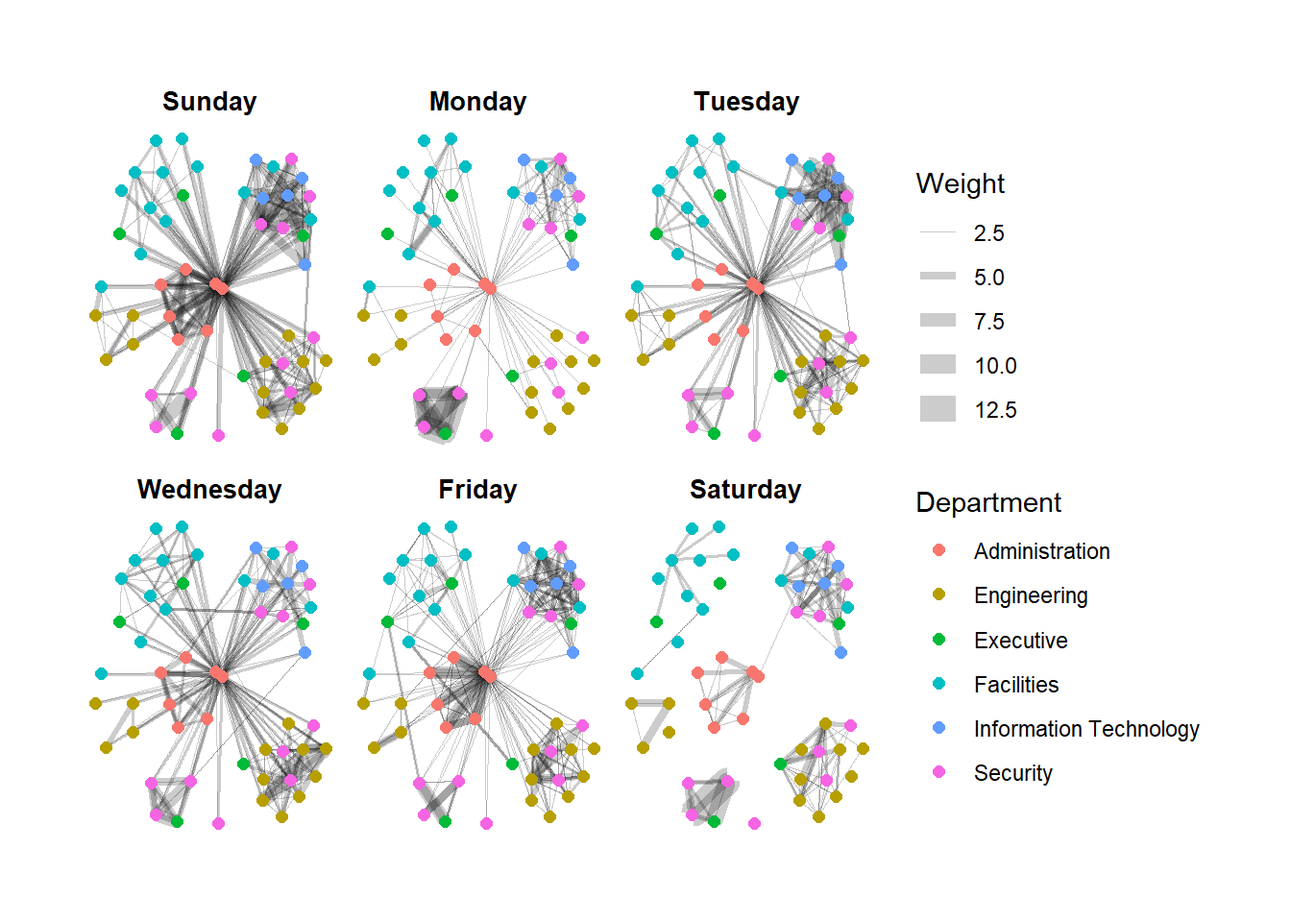
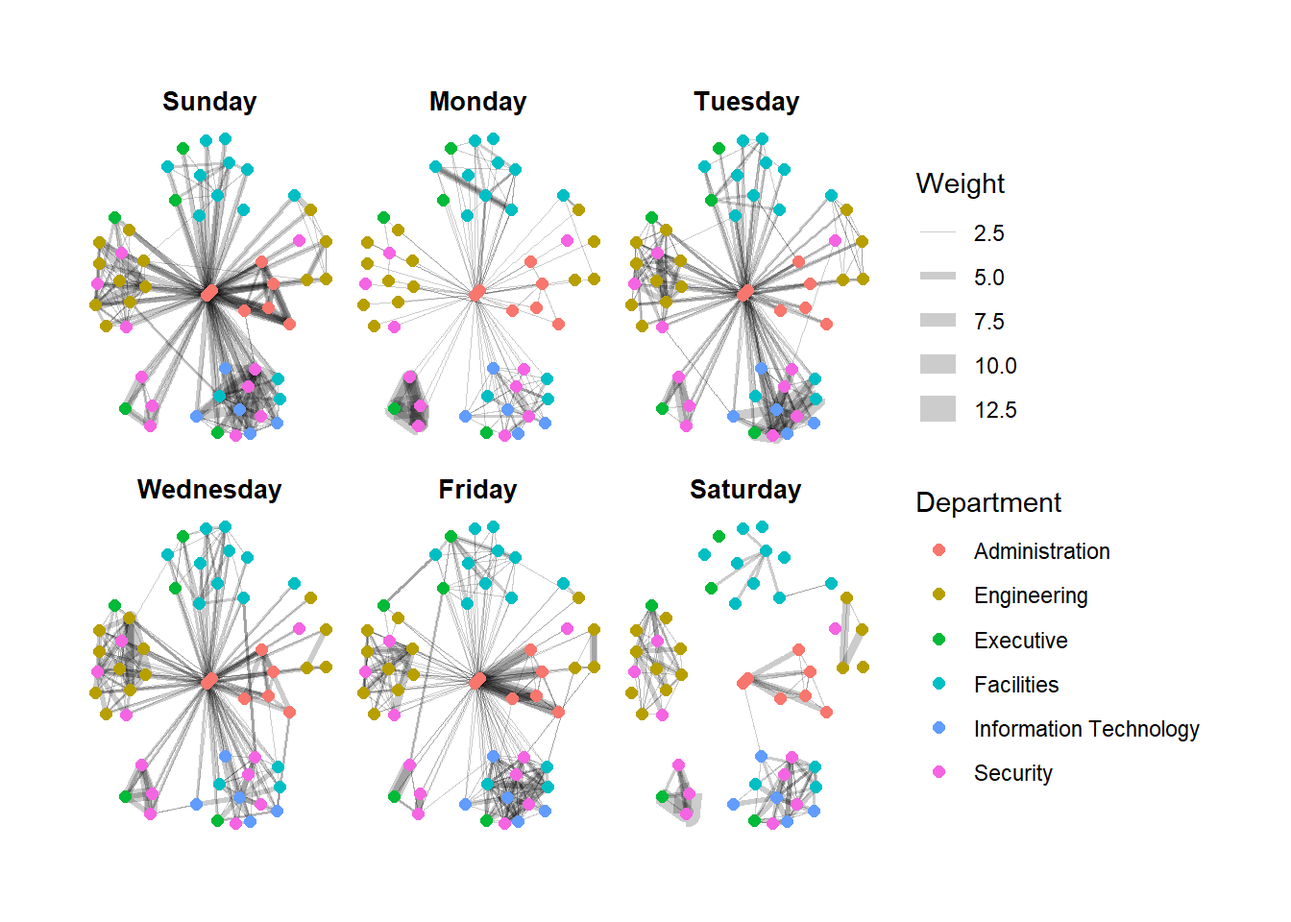
Amended In-class Exercise 8.

Changed region(s): [[0.0625, 0.125, 0.6875, 0.5], [0.0625, 0.5625, 0.6875, 0.9062]]

diff --git a/_site/In-class_Ex/In-class_Ex08/In-class_Ex08.html b/_site/In-class_Ex/In-class_Ex08/In-class_Ex08.html
@@ -504,8 +504,23 @@ Plotting the network graph:</p>
 <span id="cb13-7"><a href="#cb13-7" aria-hidden="true" tabindex="-1"></a>  <span class="fu">visLegend</span>() <span class="sc">%&gt;%</span></span>
 <span id="cb13-8"><a href="#cb13-8" aria-hidden="true" tabindex="-1"></a>  <span class="fu">visLayout</span>(<span class="at">randomSeed =</span> <span class="dv">123</span>)</span></code><button title="Copy to Clipboard" class="code-copy-button"><i class="bi"></i></button></pre></div>
 <div class="cell-output-display">
-<div id="htmlwidget-269d0491d1a39c2b927b" style="width:100%;height:464px;" class="visNetwork html-widget"></div>
-<script type="application/json" data-for="htmlwidget-269d0491d1a39c2b927b">{"x":{"nodes":{"id":[1,2,3,4,5,6,7,44,45,46,8,9,10,11,12,13,14,15,16,21,26,17,18,19,20,39,40,41,42,43,27,28,29,47,48,49,50,22,51,52,53,54,23,24,25,30,31,32,33,34,35,36,37,38],"label":["Mat.Bramar","Anda.Ribera","Rachel.Pantanal","Linda.Lagos","Ruscella.Mies.Haber","Carla.Forluniau","Cornelia.Lais","Kanon.Herrero","Varja.Lagos","Stenig.Fusil","Marin.Onda","Axel.Calzas","Brand.Tempestad","Elsa.Orilla","Isande.Borrasca","Kare.Orilla","Felix.Balas","Lars.Azada","Lidelse.Dedos","Willem.Vasco-Pais","Bertrand.Ovan","Adra.Nubarron","Birgitta.Frente","Gustav.Cazar","Vira.Frente","Linnea.Bergen","Lucas.Alcazar","Isak.Baza","Nils.Calixto","Sven.Flecha","Emile.Arpa","Varro.Awelon","Dante.Coginian","Edvard.Vann","Hennie.Osvaldo","Isia.Vann","Minke.Mies","Sten.Sanjorge.Jr","Felix.Resumir","Hideki.Cocinaro","Inga.Ferro","Loreto.Bodrogi","Ingrid.Barranco","Ada.Campo-Corrente","Orhan.Strum","Adan.Morlun","Albina.Hafon","Benito.Hawelon","Cecilia.Morluniau","Claudio.Hawelon","Dylan.Scozzese","Henk.Mies","Irene.Nant","Valeria.Morlun"],"group":["Administration","Administration","Administration","Administration","Administration","Administration","Administration","Security","Security","Security","Engineering","Engineering","Engineering","Engineering","Engineering","Engineering","Engineering","Engineering","Engineering","Executive","Facilities","Engineering","Engineering","Engineering","Engineering","Information Technology","Information Technology","Information Technology","Information Technology","Information Technology","Facilities","Facilities","Facilities","Security","Security","Security","Security","Executive","Security","Security","Security","Security","Executive","Executive","Executive","Facilities","Facilities","Facilities","Facilities","Facilities","Facilities","Facilities","Facilities","Facilities"],"Title":["Assistant to CEO","Assistant to CFO","Assistant to CIO","Assistant to COO","Assistant to Engineering Group Manager","Assistant to IT Group Manager","Assistant to Security Group Manager","Badging Office","Badging Office","Building Control","Drill Site Manager","Drill Technician","Drill Technician","Drill Technician","Drill Technician","Drill Technician","Engineer","Engineer","Engineering Group Manager","Environmental Safety Advisor","Facilities Group Manager","Geologist","Geologist","Hydraulic Technician","Hydraulic Technician","IT Group Manager","IT Helpdesk","IT Technician","IT Technician","IT Technician","Janitor","Janitor","Lead Janitor","Perimeter Control","Perimeter Control","Perimeter Control","Perimeter Control","President/CEO","Security Group Manager","Site Control","Site Control","Site Control","SVP/CFO","SVP/CIO","SVP/COO","Truck Driver","Truck Driver","Truck Driver","Truck Driver","Truck Driver","Truck Driver","Truck Driver","Truck Driver","Truck Driver"],"x":[0.0619318714175605,0.555327773443,0.815538642933199,0.934242997216069,0.138984203015864,0.74113645702011,1,0.784803672537789,0.594012477420025,0.407135996854185,-0.694652482297952,-0.378849173246295,-0.788319133675463,-0.523237699405,-0.229004262517353,-0.79563927569086,-0.564050228400396,-0.2968112030716,-0.598822168788103,-0.585970532460997,-0.00512481273190557,-0.110882619983708,-0.39893541776013,-0.654738477423694,-0.122977114710762,-1,-0.0194945969298241,0.127805254796072,0.52903138367244,0.331944786333487,-0.326315428583918,0.164304401198448,0.219182507867763,0.0859796220550888,0.171627819748573,0.99530636831601,0.80720577340852,-0.736091526466995,0.799640121714397,0.561581828727225,0.539922893586527,0.829931463912564,-0.103725134019332,-0.901586940833432,-0.854190754699053,-0.17693253095932,0.292347094542208,-0.171148731554888,-0.197403384659867,-0.361714225305335,0.00747028616798073,0.0495956526709669,-0.397657841161937,0.312325891148985],"y":[0.072420241945826,0.280408942982149,0.413696674700336,0.294190501978734,0.0164432340676965,0.595857035686546,0.139761333559704,-0.646402605061506,-0.600320795841866,-0.531905039304818,-0.337140279606921,-0.686835520126779,-0.664648397997525,-0.359236623462442,-0.790192661075687,-0.507211592314172,-0.857243169413863,-0.482334864922371,-0.575539317768908,0.16466797262346,0.837843152245573,-0.136055240732692,-0.893145723176246,-0.74847870163623,-0.684495206187535,0.418917897928071,-0.0660774247307229,-1,-0.897687363175571,-0.988824388752696,0.526379850946588,0.905947933383095,0.519316015468105,-0.102828566291442,-0.0937409161455798,-0.250481896426205,-0.506521085025451,0.433150079384343,-0.115430081099156,-0.322429514741495,-0.0810720734318572,-0.340740763661161,0.036023658687202,0.169661417722901,-0.0455061900873895,0.964707674058657,0.86716965272447,0.582165436091794,0.785498809347784,0.875388255432622,1,0.603111063883243,0.726791508435089,0.726707795093708]},"edges":{"from":[1,1,1,1,1,1,1,1,1,1,1,1,1,1,1,1,1,1,1,1,1,1,1,1,1,1,1,1,1,1,1,1,1,1,1,1,1,1,1,1,1,1,1,1,1,1,1,1,1,1,1,1,1,2,2,2,2,2,2,2,2,2,3,3,3,3,3,3,3,4,4,4,4,4,4,5,5,5,5,5,5,5,5,5,5,5,5,5,5,5,5,5,5,5,5,5,5,5,5,5,5,5,5,5,5,5,5,5,5,5,5,5,5,5,5,5,5,5,5,5,5,5,5,5,5,5,5,5,6,6,6,6,6,6,6,7,7,7,7,7,7,8,8,8,8,8,8,8,8,8,8,8,8,8,9,9,9,9,9,9,9,9,9,9,9,9,9,10,10,10,10,10,10,10,10,10,10,10,10,11,11,11,11,11,11,11,11,11,11,11,11,11,12,12,12,12,12,12,12,12,12,12,12,12,12,13,13,13,13,13,13,13,13,13,13,13,13,14,14,14,14,14,14,14,14,14,14,14,14,15,15,15,15,15,15,15,15,15,15,15,15,15,16,16,16,16,16,16,16,16,16,16,16,16,17,17,17,17,17,17,17,17,17,17,17,17,17,17,17,17,17,17,17,17,17,17,17,17,17,17,17,17,17,17,17,17,17,17,17,17,17,17,17,17,17,17,17,17,17,17,17,17,17,17,17,17,17,18,18,18,18,18,18,18,18,18,18,18,19,19,19,19,19,19,19,19,19,19,19,19,20,20,20,20,20,20,20,20,20,20,20,20,20,21,21,21,21,21,22,22,22,22,22,23,23,23,23,23,23,23,23,23,23,23,23,23,23,23,23,23,23,23,23,23,23,23,23,23,23,23,23,23,23,23,23,23,23,23,23,23,23,23,23,23,23,23,23,23,23,23,23,23,23,23,23,23,24,24,24,24,24,25,25,25,25,25,26,26,26,26,26,26,26,26,26,26,26,26,27,27,27,27,27,27,27,27,27,27,27,27,27,28,28,28,28,28,28,28,28,28,28,28,28,28,29,29,29,29,29,29,29,29,29,29,29,29,29,29,29,29,30,30,30,30,30,30,30,30,30,30,30,30,31,31,31,31,31,31,31,31,31,31,31,31,32,32,32,32,32,32,32,32,32,32,32,32,32,33,33,33,33,33,33,33,33,33,33,33,33,33,34,34,34,34,34,34,34,34,34,34,34,35,35,35,35,35,35,35,35,35,35,35,35,36,36,36,36,36,36,36,36,36,36,36,36,36,36,36,37,37,37,37,37,37,37,37,37,37,37,37,38,38,38,38,38,38,38,38,38,39,40,40,40,40,40,40,40,40,40,40,40,40,40,40,40,40,40,40,40,40,40,40,40,40,40,40,40,40,40,40,40,40,40,40,40,40,40,40,40,40,40,40,40,40,40,40,40,40,40,40,40,40,40,41,41,41,42,42,42,42,43,43,43,44,44,44,44,44,44,44,44,44,44,44,45,45,45,45,45,45,45,45,45,45,46,46,46,46,46,46,46,46,46,46,47,47,47,47,47,47,47,47,47,47,47,47,47,47,47,47,47,47,47,47,47,47,47,47,47,47,47,47,47,47,47,47,47,47,47,47,47,47,47,47,47,47,47,47,47,47,47,47,47,47,47,47,47,48,48,48,48,48,48,48,48,48,48,48,48,48,48,48,48,48,48,48,48,48,48,48,48,48,48,48,48,48,48,48,48,48,48,48,48,48,48,48,48,48,48,48,48,48,48,48,48,48,48,48,48,48,49,49,49,49,49,49,49,50,50,50,50,50,50,51,51,51,51,51,51,51,51,51,51,51,52,52,52,52,52,52,52,52,52,52,52,52,53,53,53,53,53,53,53,53,53,53,53,53,54,54,54,54,54,54,54,54,54,54,54],"to":[2,3,4,5,6,7,8,9,10,11,12,13,14,15,16,17,18,19,20,21,22,23,24,25,26,27,28,29,30,31,32,33,34,35,36,37,38,39,40,41,42,43,44,45,46,47,48,49,50,51,52,53,54,1,3,4,5,6,7,15,36,38,1,2,4,5,6,7,48,1,2,3,5,6,7,1,2,3,4,6,7,8,9,10,11,12,13,14,15,16,17,18,19,20,21,22,23,24,25,26,27,28,29,30,31,32,33,34,35,36,37,38,39,40,41,42,43,44,45,46,47,48,49,50,51,52,53,54,1,2,3,4,5,7,28,1,2,3,4,5,6,9,10,11,12,13,14,15,16,17,18,19,20,27,8,10,11,12,13,14,15,16,17,18,19,20,45,8,9,11,12,13,14,15,16,17,18,19,20,8,9,10,12,13,14,15,16,17,18,19,20,32,8,9,10,11,13,14,15,16,17,18,19,20,52,8,9,10,11,12,14,15,16,17,18,19,20,8,9,10,11,12,13,15,16,17,18,19,20,2,8,9,10,11,12,13,14,16,17,18,19,20,8,9,10,11,12,13,14,15,17,18,19,20,1,2,3,4,5,6,7,8,9,10,11,12,13,14,15,16,18,19,20,21,22,23,24,25,26,27,28,29,30,31,32,33,34,35,36,37,38,39,40,41,42,43,44,45,46,47,48,49,50,51,52,53,54,8,9,10,11,12,13,14,15,17,19,20,8,9,10,11,12,13,14,15,16,17,18,20,8,9,10,11,12,13,14,15,16,17,18,19,50,22,23,24,25,53,21,23,24,25,36,1,2,3,4,5,6,7,8,9,10,11,12,13,14,15,16,17,18,19,20,21,22,24,25,26,27,28,29,30,31,32,33,34,35,36,37,38,39,40,41,42,43,44,45,46,47,48,49,50,51,52,53,54,5,21,22,23,25,21,22,23,24,46,27,28,29,30,31,32,33,34,35,36,37,38,8,28,29,30,31,32,33,34,35,36,37,38,40,6,26,27,29,30,31,32,33,34,35,36,37,38,1,26,27,28,30,31,32,33,34,35,36,37,38,40,51,52,26,27,28,29,31,32,33,34,35,36,37,38,3,27,28,29,30,32,33,34,35,36,37,38,11,26,27,28,29,30,31,33,34,35,36,37,38,23,26,27,28,29,30,31,32,34,35,36,37,38,27,28,29,30,31,32,33,35,36,37,38,26,27,28,29,30,31,32,33,34,36,37,38,2,22,26,27,28,29,30,31,32,33,34,35,37,38,53,26,27,28,29,30,31,32,33,34,35,36,38,27,28,29,30,31,32,34,35,36,34,1,2,3,4,5,6,7,8,9,10,11,12,13,14,15,16,17,18,19,20,21,22,23,24,25,26,27,28,29,30,31,32,33,34,35,36,37,38,39,41,42,43,44,45,46,47,48,49,50,51,52,53,54,40,42,43,40,41,43,44,40,41,42,42,45,46,47,48,49,50,51,52,53,54,44,46,47,48,49,50,51,52,53,54,44,45,47,48,49,50,51,52,53,54,1,2,3,4,5,6,7,8,9,10,11,12,13,14,15,16,17,18,19,20,21,22,23,24,25,26,27,28,29,30,31,32,33,34,35,36,37,38,39,40,41,42,43,44,45,46,48,49,50,51,52,53,54,1,2,3,4,5,6,7,8,9,10,11,12,13,14,15,16,17,18,19,20,21,22,23,24,25,26,27,28,29,30,31,32,33,34,35,36,37,38,39,40,41,42,43,44,45,46,47,49,50,51,52,53,54,3,45,46,47,48,52,54,5,20,48,49,53,54,29,44,45,46,47,48,49,50,52,53,54,7,12,29,44,45,46,47,48,49,50,51,53,5,21,36,44,45,47,48,49,50,51,52,54,5,44,45,46,47,48,49,50,51,52,53],"weight":[21,21,21,21,21,21,15,15,15,15,15,15,15,15,15,15,15,15,15,15,15,15,15,15,15,15,15,16,15,15,15,15,15,15,15,15,15,15,15,15,15,15,15,15,15,15,15,15,15,15,15,15,15,6,6,6,6,6,9,2,2,2,8,8,8,8,8,8,2,12,12,12,12,12,12,20,20,20,20,20,20,10,10,10,10,10,10,10,10,10,10,10,10,10,10,10,10,11,10,10,10,10,10,10,10,10,10,10,10,10,10,10,10,10,10,10,10,10,10,10,10,11,11,11,10,10,11,11,11,11,11,11,11,11,3,12,15,12,12,12,12,3,4,3,3,4,4,3,3,4,3,4,3,3,4,4,9,4,7,7,11,5,4,5,6,8,3,8,8,7,9,9,6,9,10,10,7,5,7,11,10,11,6,11,7,11,9,10,7,10,8,3,9,10,8,8,11,6,7,5,3,6,5,6,2,9,5,10,7,7,4,3,4,7,2,3,3,6,5,7,4,6,6,7,5,7,6,3,4,3,6,13,8,8,5,6,6,11,9,6,2,7,6,8,7,5,5,7,6,7,7,5,4,6,2,2,2,2,2,2,2,6,4,7,7,6,6,6,6,5,5,4,4,2,2,2,2,2,2,2,2,2,2,2,2,2,2,2,2,2,2,2,2,2,2,2,2,2,2,2,2,2,2,2,2,2,2,3,3,4,5,3,3,2,5,2,3,2,4,8,5,9,6,5,4,10,7,4,4,5,5,10,5,7,4,5,4,4,4,3,2,4,3,4,2,4,7,2,7,5,10,4,2,4,4,4,4,4,4,4,4,4,4,4,4,6,4,4,4,4,4,4,4,6,10,17,9,4,4,4,4,4,4,4,5,4,4,4,4,4,4,4,4,4,4,4,4,4,4,4,4,4,4,4,4,4,2,5,9,7,3,8,2,3,4,2,26,25,25,25,25,25,24,25,25,26,25,26,3,4,3,6,4,3,3,6,5,3,4,5,3,3,2,3,6,5,8,6,6,7,4,6,6,6,2,2,6,5,7,5,6,5,7,6,6,5,5,3,2,3,3,5,7,9,12,9,9,6,13,12,9,11,2,5,4,6,6,9,7,6,12,7,7,8,4,2,8,6,9,7,10,7,9,6,10,5,8,2,4,2,3,5,7,8,4,7,5,7,6,4,5,6,4,7,8,5,9,6,6,10,6,3,11,7,9,11,15,7,11,11,9,13,13,2,2,3,12,11,12,16,15,19,12,11,14,11,13,3,3,4,5,6,7,7,6,9,10,7,5,3,2,5,5,2,2,2,4,4,3,2,2,2,2,2,2,2,2,2,2,2,2,2,2,2,2,2,2,2,2,2,2,2,2,2,2,2,4,2,3,2,2,2,2,2,2,2,2,2,2,40,22,30,2,2,2,2,2,2,2,2,2,2,2,28,19,24,25,19,28,2,15,16,24,3,4,2,5,6,2,5,5,2,6,3,6,4,2,6,5,5,4,7,5,6,6,3,4,9,5,6,8,7,4,6,2,2,2,2,2,2,2,2,2,2,2,2,2,2,2,2,2,2,2,2,2,2,2,2,2,2,2,2,2,2,2,2,2,2,2,3,2,2,2,2,2,2,2,5,4,3,7,5,6,6,5,5,5,2,2,4,2,4,2,2,2,2,2,2,2,2,3,2,2,2,2,2,2,2,2,2,2,2,2,2,2,2,2,2,2,2,2,2,2,2,2,2,2,2,2,2,4,4,5,3,8,6,5,5,5,6,2,3,2,3,3,4,2,2,4,2,2,5,2,3,3,3,3,4,4,2,3,3,3,3,2,2,4,2,4,4,3,4,5,3,2,4,3,3,4,3,3,2,5,4,8,2,2,5,2,3,4,3,2,5,4,4,2,3,4]},"nodesToDataframe":true,"edgesToDataframe":true,"options":{"width":"100%","height":"100%","nodes":{"shape":"dot","physics":false},"manipulation":{"enabled":false},"edges":{"smooth":false},"physics":{"stabilization":false},"layout":{"randomSeed":123}},"groups":["Administration","Security","Engineering","Executive","Facilities","Information Technology"],"width":null,"height":null,"idselection":{"enabled":false},"byselection":{"enabled":false},"main":null,"submain":null,"footer":null,"background":"rgba(0, 0, 0, 0)","igraphlayout":{"type":"square"},"legend":{"width":0.2,"useGroups":true,"position":"left","ncol":1,"stepX":100,"stepY":100,"zoom":true}},"evals":[],"jsHooks":[]}</script>
+<div id="htmlwidget-17de9cf8d09c697d8b39" style="width:100%;height:464px;" class="visNetwork html-widget"></div>
+<script type="application/json" data-for="htmlwidget-17de9cf8d09c697d8b39">{"x":{"nodes":{"id":[1,2,3,4,5,6,7,44,45,46,8,9,10,11,12,13,14,15,16,21,26,17,18,19,20,39,40,41,42,43,27,28,29,47,48,49,50,22,51,52,53,54,23,24,25,30,31,32,33,34,35,36,37,38],"label":["Mat.Bramar","Anda.Ribera","Rachel.Pantanal","Linda.Lagos","Ruscella.Mies.Haber","Carla.Forluniau","Cornelia.Lais","Kanon.Herrero","Varja.Lagos","Stenig.Fusil","Marin.Onda","Axel.Calzas","Brand.Tempestad","Elsa.Orilla","Isande.Borrasca","Kare.Orilla","Felix.Balas","Lars.Azada","Lidelse.Dedos","Willem.Vasco-Pais","Bertrand.Ovan","Adra.Nubarron","Birgitta.Frente","Gustav.Cazar","Vira.Frente","Linnea.Bergen","Lucas.Alcazar","Isak.Baza","Nils.Calixto","Sven.Flecha","Emile.Arpa","Varro.Awelon","Dante.Coginian","Edvard.Vann","Hennie.Osvaldo","Isia.Vann","Minke.Mies","Sten.Sanjorge.Jr","Felix.Resumir","Hideki.Cocinaro","Inga.Ferro","Loreto.Bodrogi","Ingrid.Barranco","Ada.Campo-Corrente","Orhan.Strum","Adan.Morlun","Albina.Hafon","Benito.Hawelon","Cecilia.Morluniau","Claudio.Hawelon","Dylan.Scozzese","Henk.Mies","Irene.Nant","Valeria.Morlun"],"group":["Administration","Administration","Administration","Administration","Administration","Administration","Administration","Security","Security","Security","Engineering","Engineering","Engineering","Engineering","Engineering","Engineering","Engineering","Engineering","Engineering","Executive","Facilities","Engineering","Engineering","Engineering","Engineering","Information Technology","Information Technology","Information Technology","Information Technology","Information Technology","Facilities","Facilities","Facilities","Security","Security","Security","Security","Executive","Security","Security","Security","Security","Executive","Executive","Executive","Facilities","Facilities","Facilities","Facilities","Facilities","Facilities","Facilities","Facilities","Facilities"],"Title":["Assistant to CEO","Assistant to CFO","Assistant to CIO","Assistant to COO","Assistant to Engineering Group Manager","Assistant to IT Group Manager","Assistant to Security Group Manager","Badging Office","Badging Office","Building Control","Drill Site Manager","Drill Technician","Drill Technician","Drill Technician","Drill Technician","Drill Technician","Engineer","Engineer","Engineering Group Manager","Environmental Safety Advisor","Facilities Group Manager","Geologist","Geologist","Hydraulic Technician","Hydraulic Technician","IT Group Manager","IT Helpdesk","IT Technician","IT Technician","IT Technician","Janitor","Janitor","Lead Janitor","Perimeter Control","Perimeter Control","Perimeter Control","Perimeter Control","President/CEO","Security Group Manager","Site Control","Site Control","Site Control","SVP/CFO","SVP/CIO","SVP/COO","Truck Driver","Truck Driver","Truck Driver","Truck Driver","Truck Driver","Truck Driver","Truck Driver","Truck Driver","Truck Driver"],"x":[0.0490761118691221,-0.235618043772067,-0.514118984467484,-0.544479676076603,-0.0952595248712723,-0.339400615859226,-0.595684391889456,-0.696497185823919,-0.511527323216068,-0.850122174510845,0.668832880697362,0.392394280238909,0.628944730010817,0.781222014325706,0.296380426751599,0.76753001356379,0.87205691182464,0.482935918190789,0.692186445305089,-0.879080256774359,0.574314734080225,0.168409898812859,0.550092741749856,0.846361528185995,0.432244682813996,1,0.0612437607384675,-0.151403061194217,-0.358316679047664,0.0368981741790695,0.496177244846153,0.197553346797477,0.16131571851981,-0.0503403682768746,-0.11808391811963,-0.849143857674396,-0.306117518389631,-0.774257415982429,-0.587754861090573,-0.395851317168555,-0.607408685337416,-0.652913768349093,-0.016614375537798,-0.888066353481524,-1,0.392014335646065,0.239255941741794,0.679764919095264,0.100837202164121,0.676430636306319,0.473113653485258,0.00680002248794009,0.366376209170978,0.493491547723007],"y":[-0.121624702377274,-0.521919437322234,-0.554777040595984,-0.768808605182255,-0.0904397885986468,-0.846436503103326,-0.383437474139083,0.64636791491623,0.632309159051837,0.440779407296097,0.304413350244996,0.754207626889703,0.524846932375569,0.196053237512196,0.610644609272311,0.623580501760453,0.358928903124271,0.26336474997375,0.750979420189484,-0.192284678050765,-0.894847722823897,0.0722978840887276,0.764477565922275,0.50275081970208,0.542199720224081,-0.221294972977735,0.0600757046263378,1,0.921813598404535,0.962358237091077,-0.425117946621145,-0.946020036052809,-0.468743831663799,0.0957142972446638,0.039699799786153,0.224526087316497,0.605300671510294,-0.588095396065586,0.226694101948242,0.343104166312561,0.0560097001290032,0.449435847675504,-0.0565685352096733,-0.379580126548951,-0.0591224974851818,-0.861097102081331,-0.710447834700522,-0.513590567543057,-0.856576711543792,-0.71159005242756,-0.733055101086789,-0.68668011058634,-1,-0.584158882999953]},"edges":{"from":[1,1,1,1,1,1,1,1,1,1,1,1,1,1,1,1,1,1,1,1,1,1,1,1,1,1,1,1,1,1,1,1,1,1,1,1,1,1,1,1,1,1,1,1,1,1,1,1,1,1,1,1,1,2,2,2,2,2,2,2,2,2,3,3,3,3,3,3,3,4,4,4,4,4,4,5,5,5,5,5,5,5,5,5,5,5,5,5,5,5,5,5,5,5,5,5,5,5,5,5,5,5,5,5,5,5,5,5,5,5,5,5,5,5,5,5,5,5,5,5,5,5,5,5,5,5,5,5,6,6,6,6,6,6,6,7,7,7,7,7,7,8,8,8,8,8,8,8,8,8,8,8,8,8,9,9,9,9,9,9,9,9,9,9,9,9,9,10,10,10,10,10,10,10,10,10,10,10,10,11,11,11,11,11,11,11,11,11,11,11,11,11,12,12,12,12,12,12,12,12,12,12,12,12,12,13,13,13,13,13,13,13,13,13,13,13,13,14,14,14,14,14,14,14,14,14,14,14,14,15,15,15,15,15,15,15,15,15,15,15,15,15,16,16,16,16,16,16,16,16,16,16,16,16,17,17,17,17,17,17,17,17,17,17,17,17,17,17,17,17,17,17,17,17,17,17,17,17,17,17,17,17,17,17,17,17,17,17,17,17,17,17,17,17,17,17,17,17,17,17,17,17,17,17,17,17,17,18,18,18,18,18,18,18,18,18,18,18,19,19,19,19,19,19,19,19,19,19,19,19,20,20,20,20,20,20,20,20,20,20,20,20,20,21,21,21,21,21,22,22,22,22,22,23,23,23,23,23,23,23,23,23,23,23,23,23,23,23,23,23,23,23,23,23,23,23,23,23,23,23,23,23,23,23,23,23,23,23,23,23,23,23,23,23,23,23,23,23,23,23,23,23,23,23,23,23,24,24,24,24,24,25,25,25,25,25,26,26,26,26,26,26,26,26,26,26,26,26,27,27,27,27,27,27,27,27,27,27,27,27,27,28,28,28,28,28,28,28,28,28,28,28,28,28,29,29,29,29,29,29,29,29,29,29,29,29,29,29,29,29,30,30,30,30,30,30,30,30,30,30,30,30,31,31,31,31,31,31,31,31,31,31,31,31,32,32,32,32,32,32,32,32,32,32,32,32,32,33,33,33,33,33,33,33,33,33,33,33,33,33,34,34,34,34,34,34,34,34,34,34,34,35,35,35,35,35,35,35,35,35,35,35,35,36,36,36,36,36,36,36,36,36,36,36,36,36,36,36,37,37,37,37,37,37,37,37,37,37,37,37,38,38,38,38,38,38,38,38,38,39,40,40,40,40,40,40,40,40,40,40,40,40,40,40,40,40,40,40,40,40,40,40,40,40,40,40,40,40,40,40,40,40,40,40,40,40,40,40,40,40,40,40,40,40,40,40,40,40,40,40,40,40,40,41,41,41,42,42,42,42,43,43,43,44,44,44,44,44,44,44,44,44,44,44,45,45,45,45,45,45,45,45,45,45,46,46,46,46,46,46,46,46,46,46,47,47,47,47,47,47,47,47,47,47,47,47,47,47,47,47,47,47,47,47,47,47,47,47,47,47,47,47,47,47,47,47,47,47,47,47,47,47,47,47,47,47,47,47,47,47,47,47,47,47,47,47,47,48,48,48,48,48,48,48,48,48,48,48,48,48,48,48,48,48,48,48,48,48,48,48,48,48,48,48,48,48,48,48,48,48,48,48,48,48,48,48,48,48,48,48,48,48,48,48,48,48,48,48,48,48,49,49,49,49,49,49,49,50,50,50,50,50,50,51,51,51,51,51,51,51,51,51,51,51,52,52,52,52,52,52,52,52,52,52,52,52,53,53,53,53,53,53,53,53,53,53,53,53,54,54,54,54,54,54,54,54,54,54,54],"to":[2,3,4,5,6,7,8,9,10,11,12,13,14,15,16,17,18,19,20,21,22,23,24,25,26,27,28,29,30,31,32,33,34,35,36,37,38,39,40,41,42,43,44,45,46,47,48,49,50,51,52,53,54,1,3,4,5,6,7,15,36,38,1,2,4,5,6,7,48,1,2,3,5,6,7,1,2,3,4,6,7,8,9,10,11,12,13,14,15,16,17,18,19,20,21,22,23,24,25,26,27,28,29,30,31,32,33,34,35,36,37,38,39,40,41,42,43,44,45,46,47,48,49,50,51,52,53,54,1,2,3,4,5,7,28,1,2,3,4,5,6,9,10,11,12,13,14,15,16,17,18,19,20,27,8,10,11,12,13,14,15,16,17,18,19,20,45,8,9,11,12,13,14,15,16,17,18,19,20,8,9,10,12,13,14,15,16,17,18,19,20,32,8,9,10,11,13,14,15,16,17,18,19,20,52,8,9,10,11,12,14,15,16,17,18,19,20,8,9,10,11,12,13,15,16,17,18,19,20,2,8,9,10,11,12,13,14,16,17,18,19,20,8,9,10,11,12,13,14,15,17,18,19,20,1,2,3,4,5,6,7,8,9,10,11,12,13,14,15,16,18,19,20,21,22,23,24,25,26,27,28,29,30,31,32,33,34,35,36,37,38,39,40,41,42,43,44,45,46,47,48,49,50,51,52,53,54,8,9,10,11,12,13,14,15,17,19,20,8,9,10,11,12,13,14,15,16,17,18,20,8,9,10,11,12,13,14,15,16,17,18,19,50,22,23,24,25,53,21,23,24,25,36,1,2,3,4,5,6,7,8,9,10,11,12,13,14,15,16,17,18,19,20,21,22,24,25,26,27,28,29,30,31,32,33,34,35,36,37,38,39,40,41,42,43,44,45,46,47,48,49,50,51,52,53,54,5,21,22,23,25,21,22,23,24,46,27,28,29,30,31,32,33,34,35,36,37,38,8,28,29,30,31,32,33,34,35,36,37,38,40,6,26,27,29,30,31,32,33,34,35,36,37,38,1,26,27,28,30,31,32,33,34,35,36,37,38,40,51,52,26,27,28,29,31,32,33,34,35,36,37,38,3,27,28,29,30,32,33,34,35,36,37,38,11,26,27,28,29,30,31,33,34,35,36,37,38,23,26,27,28,29,30,31,32,34,35,36,37,38,27,28,29,30,31,32,33,35,36,37,38,26,27,28,29,30,31,32,33,34,36,37,38,2,22,26,27,28,29,30,31,32,33,34,35,37,38,53,26,27,28,29,30,31,32,33,34,35,36,38,27,28,29,30,31,32,34,35,36,34,1,2,3,4,5,6,7,8,9,10,11,12,13,14,15,16,17,18,19,20,21,22,23,24,25,26,27,28,29,30,31,32,33,34,35,36,37,38,39,41,42,43,44,45,46,47,48,49,50,51,52,53,54,40,42,43,40,41,43,44,40,41,42,42,45,46,47,48,49,50,51,52,53,54,44,46,47,48,49,50,51,52,53,54,44,45,47,48,49,50,51,52,53,54,1,2,3,4,5,6,7,8,9,10,11,12,13,14,15,16,17,18,19,20,21,22,23,24,25,26,27,28,29,30,31,32,33,34,35,36,37,38,39,40,41,42,43,44,45,46,48,49,50,51,52,53,54,1,2,3,4,5,6,7,8,9,10,11,12,13,14,15,16,17,18,19,20,21,22,23,24,25,26,27,28,29,30,31,32,33,34,35,36,37,38,39,40,41,42,43,44,45,46,47,49,50,51,52,53,54,3,45,46,47,48,52,54,5,20,48,49,53,54,29,44,45,46,47,48,49,50,52,53,54,7,12,29,44,45,46,47,48,49,50,51,53,5,21,36,44,45,47,48,49,50,51,52,54,5,44,45,46,47,48,49,50,51,52,53],"weight":[21,21,21,21,21,21,15,15,15,15,15,15,15,15,15,15,15,15,15,15,15,15,15,15,15,15,15,16,15,15,15,15,15,15,15,15,15,15,15,15,15,15,15,15,15,15,15,15,15,15,15,15,15,6,6,6,6,6,9,2,2,2,8,8,8,8,8,8,2,12,12,12,12,12,12,20,20,20,20,20,20,10,10,10,10,10,10,10,10,10,10,10,10,10,10,10,10,11,10,10,10,10,10,10,10,10,10,10,10,10,10,10,10,10,10,10,10,10,10,10,10,11,11,11,10,10,11,11,11,11,11,11,11,11,3,12,15,12,12,12,12,3,4,3,3,4,4,3,3,4,3,4,3,3,4,4,9,4,7,7,11,5,4,5,6,8,3,8,8,7,9,9,6,9,10,10,7,5,7,11,10,11,6,11,7,11,9,10,7,10,8,3,9,10,8,8,11,6,7,5,3,6,5,6,2,9,5,10,7,7,4,3,4,7,2,3,3,6,5,7,4,6,6,7,5,7,6,3,4,3,6,13,8,8,5,6,6,11,9,6,2,7,6,8,7,5,5,7,6,7,7,5,4,6,2,2,2,2,2,2,2,6,4,7,7,6,6,6,6,5,5,4,4,2,2,2,2,2,2,2,2,2,2,2,2,2,2,2,2,2,2,2,2,2,2,2,2,2,2,2,2,2,2,2,2,2,2,3,3,4,5,3,3,2,5,2,3,2,4,8,5,9,6,5,4,10,7,4,4,5,5,10,5,7,4,5,4,4,4,3,2,4,3,4,2,4,7,2,7,5,10,4,2,4,4,4,4,4,4,4,4,4,4,4,4,6,4,4,4,4,4,4,4,6,10,17,9,4,4,4,4,4,4,4,5,4,4,4,4,4,4,4,4,4,4,4,4,4,4,4,4,4,4,4,4,4,2,5,9,7,3,8,2,3,4,2,26,25,25,25,25,25,24,25,25,26,25,26,3,4,3,6,4,3,3,6,5,3,4,5,3,3,2,3,6,5,8,6,6,7,4,6,6,6,2,2,6,5,7,5,6,5,7,6,6,5,5,3,2,3,3,5,7,9,12,9,9,6,13,12,9,11,2,5,4,6,6,9,7,6,12,7,7,8,4,2,8,6,9,7,10,7,9,6,10,5,8,2,4,2,3,5,7,8,4,7,5,7,6,4,5,6,4,7,8,5,9,6,6,10,6,3,11,7,9,11,15,7,11,11,9,13,13,2,2,3,12,11,12,16,15,19,12,11,14,11,13,3,3,4,5,6,7,7,6,9,10,7,5,3,2,5,5,2,2,2,4,4,3,2,2,2,2,2,2,2,2,2,2,2,2,2,2,2,2,2,2,2,2,2,2,2,2,2,2,2,4,2,3,2,2,2,2,2,2,2,2,2,2,40,22,30,2,2,2,2,2,2,2,2,2,2,2,28,19,24,25,19,28,2,15,16,24,3,4,2,5,6,2,5,5,2,6,3,6,4,2,6,5,5,4,7,5,6,6,3,4,9,5,6,8,7,4,6,2,2,2,2,2,2,2,2,2,2,2,2,2,2,2,2,2,2,2,2,2,2,2,2,2,2,2,2,2,2,2,2,2,2,2,3,2,2,2,2,2,2,2,5,4,3,7,5,6,6,5,5,5,2,2,4,2,4,2,2,2,2,2,2,2,2,3,2,2,2,2,2,2,2,2,2,2,2,2,2,2,2,2,2,2,2,2,2,2,2,2,2,2,2,2,2,4,4,5,3,8,6,5,5,5,6,2,3,2,3,3,4,2,2,4,2,2,5,2,3,3,3,3,4,4,2,3,3,3,3,2,2,4,2,4,4,3,4,5,3,2,4,3,3,4,3,3,2,5,4,8,2,2,5,2,3,4,3,2,5,4,4,2,3,4]},"nodesToDataframe":true,"edgesToDataframe":true,"options":{"width":"100%","height":"100%","nodes":{"shape":"dot","physics":false},"manipulation":{"enabled":false},"edges":{"smooth":false},"physics":{"stabilization":false},"layout":{"randomSeed":123}},"groups":["Administration","Security","Engineering","Executive","Facilities","Information Technology"],"width":null,"height":null,"idselection":{"enabled":false},"byselection":{"enabled":false},"main":null,"submain":null,"footer":null,"background":"rgba(0, 0, 0, 0)","igraphlayout":{"type":"square"},"legend":{"width":0.2,"useGroups":true,"position":"left","ncol":1,"stepX":100,"stepY":100,"zoom":true}},"evals":[],"jsHooks":[]}</script>
+</div>
+</div>
+<p><br>
+Adding interactivity (select the node you want - either from a dropdown menu or by clicking directly on the graph - and that node as well as its nearest nodes will be highlighted):</p>
+<div class="cell">
+<div class="sourceCode cell-code" id="cb14"><pre class="sourceCode r code-with-copy"><code class="sourceCode r"><span id="cb14-1"><a href="#cb14-1" aria-hidden="true" tabindex="-1"></a><span class="fu">visNetwork</span>(GAStech_nodes,</span>
+<span id="cb14-2"><a href="#cb14-2" aria-hidden="true" tabindex="-1"></a>           GAStech_edges_aggregated) <span class="sc">%&gt;%</span></span>
+<span id="cb14-3"><a href="#cb14-3" aria-hidden="true" tabindex="-1"></a>  <span class="fu">visIgraphLayout</span>(<span class="at">layout =</span> <span class="st">"layout_with_fr"</span>) <span class="sc">%&gt;%</span></span>
+<span id="cb14-4"><a href="#cb14-4" aria-hidden="true" tabindex="-1"></a>  <span class="fu">visOptions</span>(<span class="at">highlightNearest =</span> <span class="cn">TRUE</span>,</span>
+<span id="cb14-5"><a href="#cb14-5" aria-hidden="true" tabindex="-1"></a>             <span class="at">nodesIdSelection =</span> <span class="cn">TRUE</span>) <span class="sc">%&gt;%</span></span>
+<span id="cb14-6"><a href="#cb14-6" aria-hidden="true" tabindex="-1"></a>  <span class="fu">visLegend</span>() <span class="sc">%&gt;%</span></span>
+<span id="cb14-7"><a href="#cb14-7" aria-hidden="true" tabindex="-1"></a>  <span class="fu">visLayout</span>(<span class="at">randomSeed =</span> <span class="dv">123</span>)</span></code><button title="Copy to Clipboard" class="code-copy-button"><i class="bi"></i></button></pre></div>
+<div class="cell-output-display">
+<div id="htmlwidget-e6658af1f7bb31d4dc69" style="width:100%;height:464px;" class="visNetwork html-widget"></div>
+<script type="application/json" data-for="htmlwidget-e6658af1f7bb31d4dc69">{"x":{"nodes":{"id":[1,2,3,4,5,6,7,44,45,46,8,9,10,11,12,13,14,15,16,21,26,17,18,19,20,39,40,41,42,43,27,28,29,47,48,49,50,22,51,52,53,54,23,24,25,30,31,32,33,34,35,36,37,38],"label":["Mat.Bramar","Anda.Ribera","Rachel.Pantanal","Linda.Lagos","Ruscella.Mies.Haber","Carla.Forluniau","Cornelia.Lais","Kanon.Herrero","Varja.Lagos","Stenig.Fusil","Marin.Onda","Axel.Calzas","Brand.Tempestad","Elsa.Orilla","Isande.Borrasca","Kare.Orilla","Felix.Balas","Lars.Azada","Lidelse.Dedos","Willem.Vasco-Pais","Bertrand.Ovan","Adra.Nubarron","Birgitta.Frente","Gustav.Cazar","Vira.Frente","Linnea.Bergen","Lucas.Alcazar","Isak.Baza","Nils.Calixto","Sven.Flecha","Emile.Arpa","Varro.Awelon","Dante.Coginian","Edvard.Vann","Hennie.Osvaldo","Isia.Vann","Minke.Mies","Sten.Sanjorge.Jr","Felix.Resumir","Hideki.Cocinaro","Inga.Ferro","Loreto.Bodrogi","Ingrid.Barranco","Ada.Campo-Corrente","Orhan.Strum","Adan.Morlun","Albina.Hafon","Benito.Hawelon","Cecilia.Morluniau","Claudio.Hawelon","Dylan.Scozzese","Henk.Mies","Irene.Nant","Valeria.Morlun"],"group":["Administration","Administration","Administration","Administration","Administration","Administration","Administration","Security","Security","Security","Engineering","Engineering","Engineering","Engineering","Engineering","Engineering","Engineering","Engineering","Engineering","Executive","Facilities","Engineering","Engineering","Engineering","Engineering","Information Technology","Information Technology","Information Technology","Information Technology","Information Technology","Facilities","Facilities","Facilities","Security","Security","Security","Security","Executive","Security","Security","Security","Security","Executive","Executive","Executive","Facilities","Facilities","Facilities","Facilities","Facilities","Facilities","Facilities","Facilities","Facilities"],"Title":["Assistant to CEO","Assistant to CFO","Assistant to CIO","Assistant to COO","Assistant to Engineering Group Manager","Assistant to IT Group Manager","Assistant to Security Group Manager","Badging Office","Badging Office","Building Control","Drill Site Manager","Drill Technician","Drill Technician","Drill Technician","Drill Technician","Drill Technician","Engineer","Engineer","Engineering Group Manager","Environmental Safety Advisor","Facilities Group Manager","Geologist","Geologist","Hydraulic Technician","Hydraulic Technician","IT Group Manager","IT Helpdesk","IT Technician","IT Technician","IT Technician","Janitor","Janitor","Lead Janitor","Perimeter Control","Perimeter Control","Perimeter Control","Perimeter Control","President/CEO","Security Group Manager","Site Control","Site Control","Site Control","SVP/CFO","SVP/CIO","SVP/COO","Truck Driver","Truck Driver","Truck Driver","Truck Driver","Truck Driver","Truck Driver","Truck Driver","Truck Driver","Truck Driver"],"x":[0.0635925089137226,0.0758046928409026,-0.202064318663563,-0.220787389196499,0.0281170196357019,0.129284773869643,-0.106654751365704,-0.295511331128906,-0.187374125316764,0.122352377748514,-0.585667407638768,-0.823465936678621,-0.831401209579673,-0.539536766465304,-0.794306733695899,-0.674680912558584,-0.976018960319961,-0.728910938435138,-1,0.547354083608705,0.95407585889096,-0.142229171642507,-0.979179103471699,-0.908113595233665,-0.675686869733815,0.37018523585495,-0.0376227808674994,-0.620393590937114,-0.595262609675391,-0.406141012713035,0.429961314743293,0.734996328385043,0.63249630394833,0.0488048700846602,-0.035308247485062,-0.19554318097336,-0.381125464870986,0.858097436691483,0.23173616450737,-0.0214752627323604,0.236091390268057,-0.011123590976575,0.144339530649123,0.645528255583626,0.731092746855256,0.966556980635253,0.651500947530789,0.516494715898769,0.853673498714404,0.875247067217062,0.808089776256465,0.668778531594375,1,0.577785554997057],"y":[0.10105644946914,0.618994499576907,0.50214833808411,0.840689988924981,-0.0106991334286686,0.860000983139009,0.690318769091142,-0.585837556008682,-0.957769912249609,-1,0.106038076194402,-0.260772497147219,-0.00979548476802672,-0.0827345694229664,-0.427436499737191,-0.244510926916739,-0.144539786750543,0.210301805139986,0.0211327939193326,-0.859016752153825,-0.0501029728083239,-0.028796966928792,-0.322322991892106,0.161755419433446,-0.470808444894501,1,0.0832067736677236,0.760922285419927,0.487441970440592,0.9324254965411,0.402558166020828,0.584992308081419,-0.0808089064908963,-0.16389296835829,-0.148373809851397,-0.751924321084081,-0.85861115361438,-0.489755280245012,-0.808995413614478,-0.576224743567166,-0.634815788959131,-0.875653632940764,-0.080668979070169,-0.568949835661783,-0.7819336566748,0.350889058357255,0.43168599904766,0.217025886576808,0.0829188594713701,0.521916059811462,0.3037257261538,0.0811599868580533,0.175068526331953,0.623229455846947]},"edges":{"from":[1,1,1,1,1,1,1,1,1,1,1,1,1,1,1,1,1,1,1,1,1,1,1,1,1,1,1,1,1,1,1,1,1,1,1,1,1,1,1,1,1,1,1,1,1,1,1,1,1,1,1,1,1,2,2,2,2,2,2,2,2,2,3,3,3,3,3,3,3,4,4,4,4,4,4,5,5,5,5,5,5,5,5,5,5,5,5,5,5,5,5,5,5,5,5,5,5,5,5,5,5,5,5,5,5,5,5,5,5,5,5,5,5,5,5,5,5,5,5,5,5,5,5,5,5,5,5,5,6,6,6,6,6,6,6,7,7,7,7,7,7,8,8,8,8,8,8,8,8,8,8,8,8,8,9,9,9,9,9,9,9,9,9,9,9,9,9,10,10,10,10,10,10,10,10,10,10,10,10,11,11,11,11,11,11,11,11,11,11,11,11,11,12,12,12,12,12,12,12,12,12,12,12,12,12,13,13,13,13,13,13,13,13,13,13,13,13,14,14,14,14,14,14,14,14,14,14,14,14,15,15,15,15,15,15,15,15,15,15,15,15,15,16,16,16,16,16,16,16,16,16,16,16,16,17,17,17,17,17,17,17,17,17,17,17,17,17,17,17,17,17,17,17,17,17,17,17,17,17,17,17,17,17,17,17,17,17,17,17,17,17,17,17,17,17,17,17,17,17,17,17,17,17,17,17,17,17,18,18,18,18,18,18,18,18,18,18,18,19,19,19,19,19,19,19,19,19,19,19,19,20,20,20,20,20,20,20,20,20,20,20,20,20,21,21,21,21,21,22,22,22,22,22,23,23,23,23,23,23,23,23,23,23,23,23,23,23,23,23,23,23,23,23,23,23,23,23,23,23,23,23,23,23,23,23,23,23,23,23,23,23,23,23,23,23,23,23,23,23,23,23,23,23,23,23,23,24,24,24,24,24,25,25,25,25,25,26,26,26,26,26,26,26,26,26,26,26,26,27,27,27,27,27,27,27,27,27,27,27,27,27,28,28,28,28,28,28,28,28,28,28,28,28,28,29,29,29,29,29,29,29,29,29,29,29,29,29,29,29,29,30,30,30,30,30,30,30,30,30,30,30,30,31,31,31,31,31,31,31,31,31,31,31,31,32,32,32,32,32,32,32,32,32,32,32,32,32,33,33,33,33,33,33,33,33,33,33,33,33,33,34,34,34,34,34,34,34,34,34,34,34,35,35,35,35,35,35,35,35,35,35,35,35,36,36,36,36,36,36,36,36,36,36,36,36,36,36,36,37,37,37,37,37,37,37,37,37,37,37,37,38,38,38,38,38,38,38,38,38,39,40,40,40,40,40,40,40,40,40,40,40,40,40,40,40,40,40,40,40,40,40,40,40,40,40,40,40,40,40,40,40,40,40,40,40,40,40,40,40,40,40,40,40,40,40,40,40,40,40,40,40,40,40,41,41,41,42,42,42,42,43,43,43,44,44,44,44,44,44,44,44,44,44,44,45,45,45,45,45,45,45,45,45,45,46,46,46,46,46,46,46,46,46,46,47,47,47,47,47,47,47,47,47,47,47,47,47,47,47,47,47,47,47,47,47,47,47,47,47,47,47,47,47,47,47,47,47,47,47,47,47,47,47,47,47,47,47,47,47,47,47,47,47,47,47,47,47,48,48,48,48,48,48,48,48,48,48,48,48,48,48,48,48,48,48,48,48,48,48,48,48,48,48,48,48,48,48,48,48,48,48,48,48,48,48,48,48,48,48,48,48,48,48,48,48,48,48,48,48,48,49,49,49,49,49,49,49,50,50,50,50,50,50,51,51,51,51,51,51,51,51,51,51,51,52,52,52,52,52,52,52,52,52,52,52,52,53,53,53,53,53,53,53,53,53,53,53,53,54,54,54,54,54,54,54,54,54,54,54],"to":[2,3,4,5,6,7,8,9,10,11,12,13,14,15,16,17,18,19,20,21,22,23,24,25,26,27,28,29,30,31,32,33,34,35,36,37,38,39,40,41,42,43,44,45,46,47,48,49,50,51,52,53,54,1,3,4,5,6,7,15,36,38,1,2,4,5,6,7,48,1,2,3,5,6,7,1,2,3,4,6,7,8,9,10,11,12,13,14,15,16,17,18,19,20,21,22,23,24,25,26,27,28,29,30,31,32,33,34,35,36,37,38,39,40,41,42,43,44,45,46,47,48,49,50,51,52,53,54,1,2,3,4,5,7,28,1,2,3,4,5,6,9,10,11,12,13,14,15,16,17,18,19,20,27,8,10,11,12,13,14,15,16,17,18,19,20,45,8,9,11,12,13,14,15,16,17,18,19,20,8,9,10,12,13,14,15,16,17,18,19,20,32,8,9,10,11,13,14,15,16,17,18,19,20,52,8,9,10,11,12,14,15,16,17,18,19,20,8,9,10,11,12,13,15,16,17,18,19,20,2,8,9,10,11,12,13,14,16,17,18,19,20,8,9,10,11,12,13,14,15,17,18,19,20,1,2,3,4,5,6,7,8,9,10,11,12,13,14,15,16,18,19,20,21,22,23,24,25,26,27,28,29,30,31,32,33,34,35,36,37,38,39,40,41,42,43,44,45,46,47,48,49,50,51,52,53,54,8,9,10,11,12,13,14,15,17,19,20,8,9,10,11,12,13,14,15,16,17,18,20,8,9,10,11,12,13,14,15,16,17,18,19,50,22,23,24,25,53,21,23,24,25,36,1,2,3,4,5,6,7,8,9,10,11,12,13,14,15,16,17,18,19,20,21,22,24,25,26,27,28,29,30,31,32,33,34,35,36,37,38,39,40,41,42,43,44,45,46,47,48,49,50,51,52,53,54,5,21,22,23,25,21,22,23,24,46,27,28,29,30,31,32,33,34,35,36,37,38,8,28,29,30,31,32,33,34,35,36,37,38,40,6,26,27,29,30,31,32,33,34,35,36,37,38,1,26,27,28,30,31,32,33,34,35,36,37,38,40,51,52,26,27,28,29,31,32,33,34,35,36,37,38,3,27,28,29,30,32,33,34,35,36,37,38,11,26,27,28,29,30,31,33,34,35,36,37,38,23,26,27,28,29,30,31,32,34,35,36,37,38,27,28,29,30,31,32,33,35,36,37,38,26,27,28,29,30,31,32,33,34,36,37,38,2,22,26,27,28,29,30,31,32,33,34,35,37,38,53,26,27,28,29,30,31,32,33,34,35,36,38,27,28,29,30,31,32,34,35,36,34,1,2,3,4,5,6,7,8,9,10,11,12,13,14,15,16,17,18,19,20,21,22,23,24,25,26,27,28,29,30,31,32,33,34,35,36,37,38,39,41,42,43,44,45,46,47,48,49,50,51,52,53,54,40,42,43,40,41,43,44,40,41,42,42,45,46,47,48,49,50,51,52,53,54,44,46,47,48,49,50,51,52,53,54,44,45,47,48,49,50,51,52,53,54,1,2,3,4,5,6,7,8,9,10,11,12,13,14,15,16,17,18,19,20,21,22,23,24,25,26,27,28,29,30,31,32,33,34,35,36,37,38,39,40,41,42,43,44,45,46,48,49,50,51,52,53,54,1,2,3,4,5,6,7,8,9,10,11,12,13,14,15,16,17,18,19,20,21,22,23,24,25,26,27,28,29,30,31,32,33,34,35,36,37,38,39,40,41,42,43,44,45,46,47,49,50,51,52,53,54,3,45,46,47,48,52,54,5,20,48,49,53,54,29,44,45,46,47,48,49,50,52,53,54,7,12,29,44,45,46,47,48,49,50,51,53,5,21,36,44,45,47,48,49,50,51,52,54,5,44,45,46,47,48,49,50,51,52,53],"weight":[21,21,21,21,21,21,15,15,15,15,15,15,15,15,15,15,15,15,15,15,15,15,15,15,15,15,15,16,15,15,15,15,15,15,15,15,15,15,15,15,15,15,15,15,15,15,15,15,15,15,15,15,15,6,6,6,6,6,9,2,2,2,8,8,8,8,8,8,2,12,12,12,12,12,12,20,20,20,20,20,20,10,10,10,10,10,10,10,10,10,10,10,10,10,10,10,10,11,10,10,10,10,10,10,10,10,10,10,10,10,10,10,10,10,10,10,10,10,10,10,10,11,11,11,10,10,11,11,11,11,11,11,11,11,3,12,15,12,12,12,12,3,4,3,3,4,4,3,3,4,3,4,3,3,4,4,9,4,7,7,11,5,4,5,6,8,3,8,8,7,9,9,6,9,10,10,7,5,7,11,10,11,6,11,7,11,9,10,7,10,8,3,9,10,8,8,11,6,7,5,3,6,5,6,2,9,5,10,7,7,4,3,4,7,2,3,3,6,5,7,4,6,6,7,5,7,6,3,4,3,6,13,8,8,5,6,6,11,9,6,2,7,6,8,7,5,5,7,6,7,7,5,4,6,2,2,2,2,2,2,2,6,4,7,7,6,6,6,6,5,5,4,4,2,2,2,2,2,2,2,2,2,2,2,2,2,2,2,2,2,2,2,2,2,2,2,2,2,2,2,2,2,2,2,2,2,2,3,3,4,5,3,3,2,5,2,3,2,4,8,5,9,6,5,4,10,7,4,4,5,5,10,5,7,4,5,4,4,4,3,2,4,3,4,2,4,7,2,7,5,10,4,2,4,4,4,4,4,4,4,4,4,4,4,4,6,4,4,4,4,4,4,4,6,10,17,9,4,4,4,4,4,4,4,5,4,4,4,4,4,4,4,4,4,4,4,4,4,4,4,4,4,4,4,4,4,2,5,9,7,3,8,2,3,4,2,26,25,25,25,25,25,24,25,25,26,25,26,3,4,3,6,4,3,3,6,5,3,4,5,3,3,2,3,6,5,8,6,6,7,4,6,6,6,2,2,6,5,7,5,6,5,7,6,6,5,5,3,2,3,3,5,7,9,12,9,9,6,13,12,9,11,2,5,4,6,6,9,7,6,12,7,7,8,4,2,8,6,9,7,10,7,9,6,10,5,8,2,4,2,3,5,7,8,4,7,5,7,6,4,5,6,4,7,8,5,9,6,6,10,6,3,11,7,9,11,15,7,11,11,9,13,13,2,2,3,12,11,12,16,15,19,12,11,14,11,13,3,3,4,5,6,7,7,6,9,10,7,5,3,2,5,5,2,2,2,4,4,3,2,2,2,2,2,2,2,2,2,2,2,2,2,2,2,2,2,2,2,2,2,2,2,2,2,2,2,4,2,3,2,2,2,2,2,2,2,2,2,2,40,22,30,2,2,2,2,2,2,2,2,2,2,2,28,19,24,25,19,28,2,15,16,24,3,4,2,5,6,2,5,5,2,6,3,6,4,2,6,5,5,4,7,5,6,6,3,4,9,5,6,8,7,4,6,2,2,2,2,2,2,2,2,2,2,2,2,2,2,2,2,2,2,2,2,2,2,2,2,2,2,2,2,2,2,2,2,2,2,2,3,2,2,2,2,2,2,2,5,4,3,7,5,6,6,5,5,5,2,2,4,2,4,2,2,2,2,2,2,2,2,3,2,2,2,2,2,2,2,2,2,2,2,2,2,2,2,2,2,2,2,2,2,2,2,2,2,2,2,2,2,4,4,5,3,8,6,5,5,5,6,2,3,2,3,3,4,2,2,4,2,2,5,2,3,3,3,3,4,4,2,3,3,3,3,2,2,4,2,4,4,3,4,5,3,2,4,3,3,4,3,3,2,5,4,8,2,2,5,2,3,4,3,2,5,4,4,2,3,4]},"nodesToDataframe":true,"edgesToDataframe":true,"options":{"width":"100%","height":"100%","nodes":{"shape":"dot","physics":false},"manipulation":{"enabled":false},"edges":{"smooth":false},"physics":{"stabilization":false},"layout":{"randomSeed":123}},"groups":["Administration","Security","Engineering","Executive","Facilities","Information Technology"],"width":null,"height":null,"idselection":{"enabled":true,"style":"width: 150px; height: 26px","useLabels":true,"main":"Select by id"},"byselection":{"enabled":false,"style":"width: 150px; height: 26px","multiple":false,"hideColor":"rgba(200,200,200,0.5)","highlight":false},"main":null,"submain":null,"footer":null,"background":"rgba(0, 0, 0, 0)","igraphlayout":{"type":"square"},"highlight":{"enabled":true,"hoverNearest":false,"degree":1,"algorithm":"all","hideColor":"rgba(200,200,200,0.5)","labelOnly":true},"collapse":{"enabled":false,"fit":false,"resetHighlight":true,"clusterOptions":null,"keepCoord":true,"labelSuffix":"(cluster)"},"legend":{"width":0.2,"useGroups":true,"position":"left","ncol":1,"stepX":100,"stepY":100,"zoom":true}},"evals":[],"jsHooks":[]}</script>
 </div>
 </div>
 
